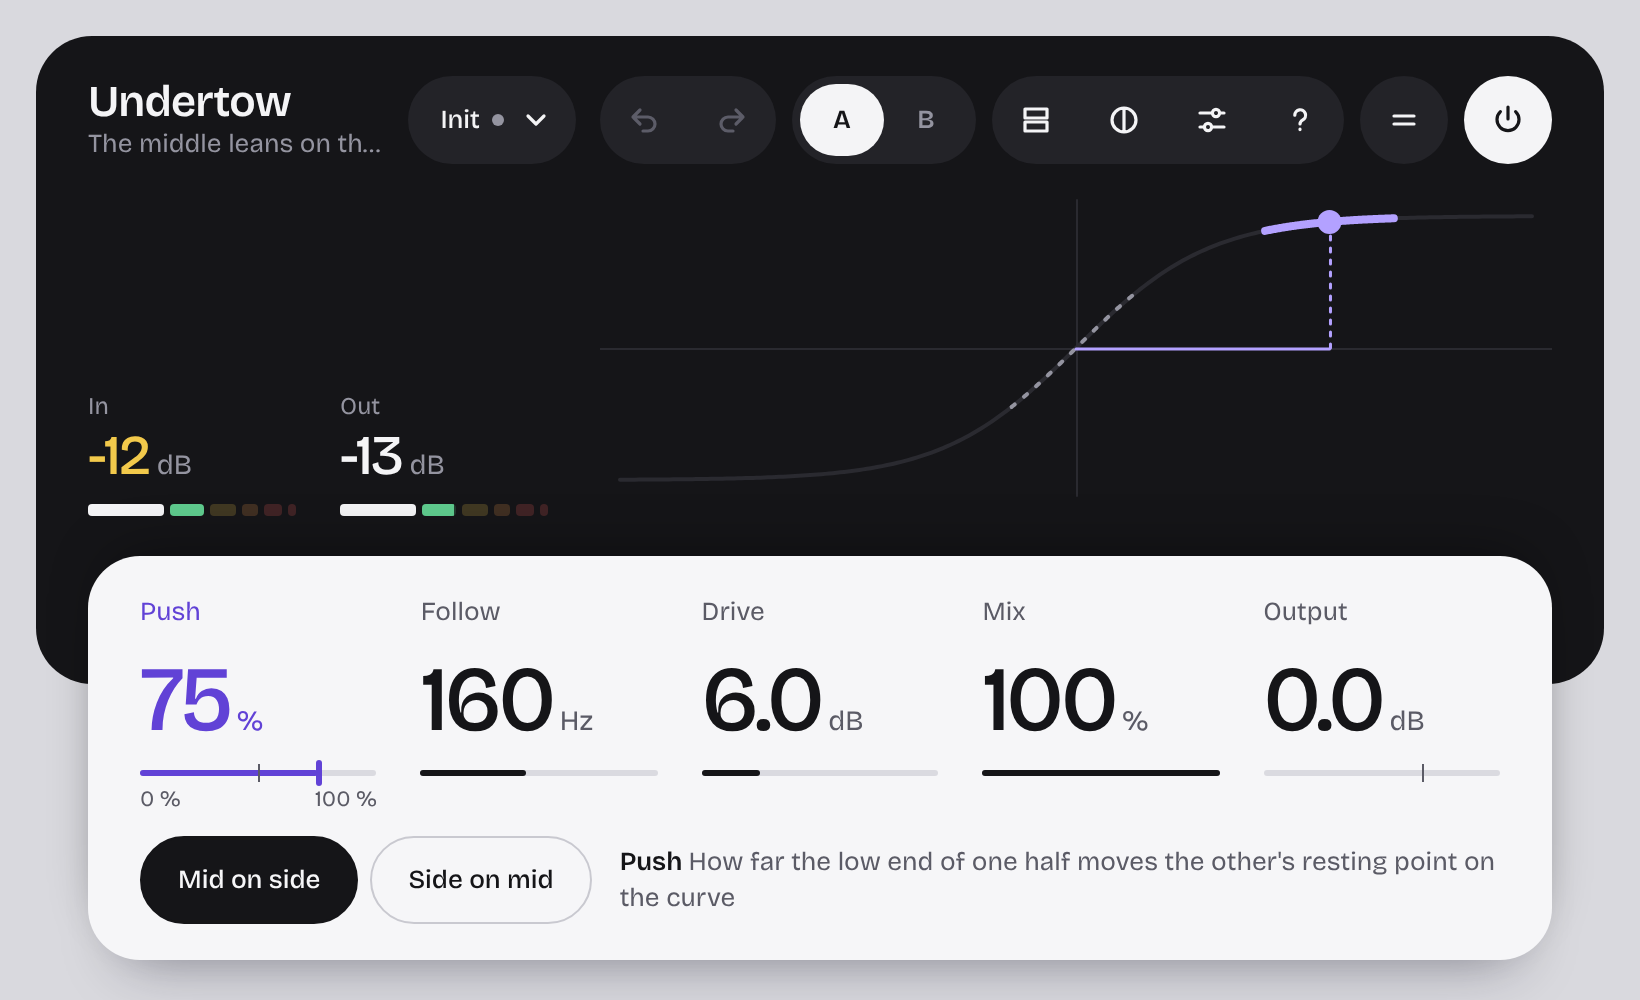
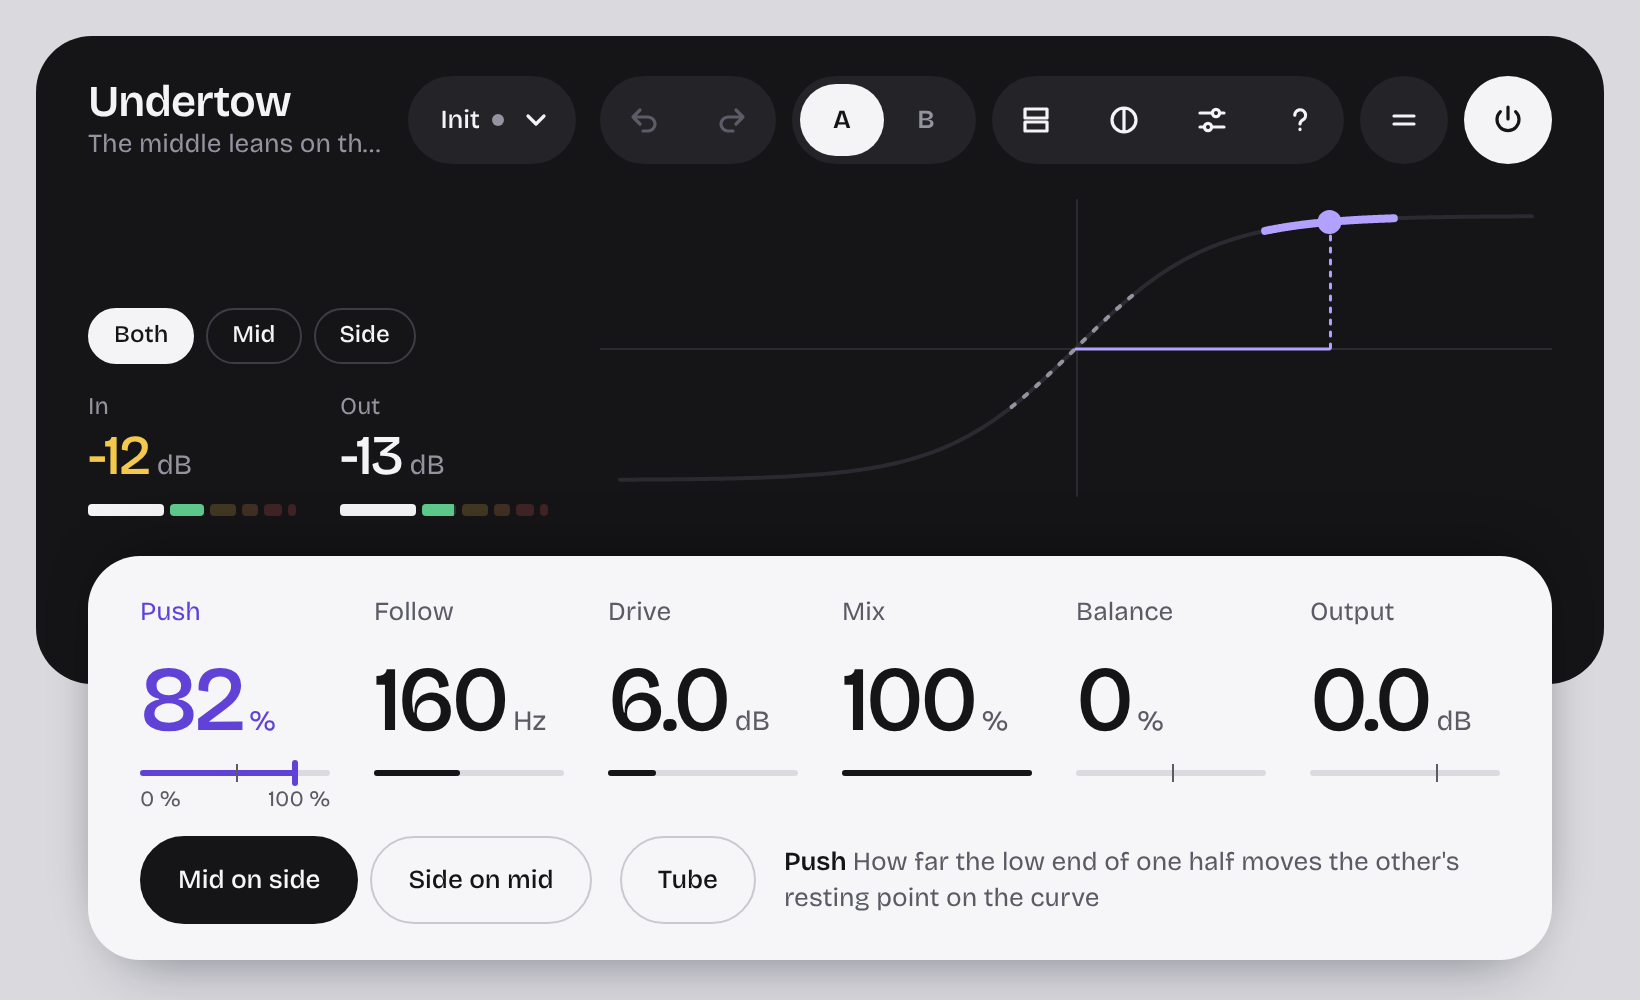
Undertow 0.2.0: solo and balance for mid and side, and the tube window
New settings take new ids (12 to 17); none that shipped changes. With
the tube window at rest it sounds as 0.1.1 did.

Claude-Session: https://claude.ai/code/session_01LsEv5JJ6sX3X7Qe9Tsco2Y

diff --git a/plugins/undertow/ui/main.js b/plugins/undertow/ui/main.js
@@ -5,11 +5,10 @@
 
 import {
   mount, glass, header, stage, readouts, meter, picture, sheet, values,
-  value, choice, foot, h
+  value, choice, foot, h, column, listen, tubeCurve
 } from './kit/kit.js'
 
-// As src/lib.rs has them.
-const curve = (x) => Math.tanh(x)
+// As src/lib.rs has it.
 const REACH = 3
 
 // How far either way of the centre the glass shows, on the curve's
@@ -18,7 +17,7 @@ const SPAN = REACH + 0.4
 
 // The settings that move what is drawn: holding one turns the riding
 // stretch purple.
-const DRAWN = ['push', 'follow', 'drive', 'steer']
+const DRAWN = ['push', 'follow', 'drive', 'steer', 'tube_bias', 'tube_grid']
 
 // From the sound itself, the resting point the bias would give at
 // each of the latest samples: the leaning half's low end, by Push.
@@ -40,6 +39,11 @@ const draw = (ui) => (pen) => {
   const tall = height / 2 - 18
   const across = (x) => width / 2 + x / SPAN * (width / 2 - 10)
   const up = (y) => mid - y * tall
+  // The valve's own curve, as the tube window has shaped it, and how
+  // far its Bias has moved where the carried half rests on it.
+  const grid = ui.p.tube_grid.plain / 100
+  const rest = ui.p.tube_bias.plain / 100
+  const curve = (x) => tubeCurve(x, grid)
   const along = (from, to, n = 120) => Array.from({ length: n + 1 },
     (_, i) => from + (to - from) * i / n)
   const path = (xs) => {
@@ -54,9 +58,9 @@ const draw = (ui) => (pen) => {
   const midLeans = ui.p.steer.plain === 0
   const live = midLeans && pen.signal?.input.length ? pen.signal : null
   const wake = live ? biases(ui, live) : null
-  const bias = wake
+  const bias = rest + (wake
     ? wake[wake.length - 1]
-    : ui.m.lean.value * REACH
+    : ui.m.lean.value * REACH)
   const swing = Math.max(0.04, ui.m.swing.value * REACH)
 
   // The axes: the centre of the curve, where the sides rest unpushed.
@@ -73,8 +77,9 @@ const draw = (ui) => (pen) => {
   // or from the lean meter's last seconds, which knows how far but
   // not which way, so it is drawn both ways.
   const been = wake
-    ? wake.filter((_, i) => i % 6 === 0)
-    : pen.trail(ui.m.lean).flatMap((v) => [v * REACH, -v * REACH])
+    ? wake.filter((_, i) => i % 6 === 0).map((x) => x + rest)
+    : pen.trail(ui.m.lean)
+      .flatMap((v) => [rest + v * REACH, rest - v * REACH])
   ctx.fillStyle = pen.soft
   been.forEach((x) => {
     ctx.fillRect(across(x) - 1, up(curve(x)) - 7, 2, 14)
@@ -89,7 +94,7 @@ const draw = (ui) => (pen) => {
   ctx.strokeStyle = pen.soft
   ctx.lineWidth = 2
   ctx.setLineDash([2, 6])
-  path(along(-swing, swing))
+  path(along(rest - swing, rest + swing))
   ctx.setLineDash([])
 
   // The push: from the centre along the axis to where the bass has
@@ -98,7 +103,7 @@ const draw = (ui) => (pen) => {
   ctx.strokeStyle = held ? pen.accent : pen.ink
   ctx.lineWidth = 1.5
   ctx.beginPath()
-  ctx.moveTo(across(0), mid + 0.5)
+  ctx.moveTo(across(rest), mid + 0.5)
   ctx.lineTo(across(bias), mid + 0.5)
   ctx.stroke()
   ctx.setLineDash([2, 4])
@@ -146,9 +151,11 @@ mount((ui) => [
   glass(
     header(ui, { note: leaning(ui) }),
     stage(
-      readouts(
-        meter(ui.m.input, { title: 'In' }),
-        meter(ui.m.level, { title: 'Out' })),
+      column(
+        listen(ui.p.listen, { ui }),
+        readouts(
+          meter(ui.m.input, { title: 'In' }),
+          meter(ui.m.level, { title: 'Out' }))),
       picture(ui, draw(ui), {
         label: 'The valve\'s curve: dashed where the carried half would ' +
           'swing at rest, solid where the leaning half has pushed it. ' +
@@ -161,6 +168,7 @@ mount((ui) => [
       value(ui.p.follow, { ui }),
       value(ui.p.drive, { ui }),
       value(ui.p.mix, { ui }),
+      value(ui.p.balance, { ui, bipolar: true }),
       value(ui.p.output, { ui, bipolar: true })),
     foot(ui, choice(ui.p.steer, { ui })))
 ], { presets: PRESETS })

diff --git a/plugins/undertow/ui/style.css b/plugins/undertow/ui/style.css
@@ -1,6 +1,6 @@
-/* Undertow's own look, over the kit's. Five settings sit in one row
+/* Undertow's own look, over the kit's. Six settings sit in one row
    rather than the kit's four, since each belongs beside the others:
    the three that set the lean, then the way out. */
 .kit-values {
-  grid-template-columns: repeat(5, minmax(0, 1fr));
+  grid-template-columns: repeat(6, minmax(0, 1fr));
 }

diff --git a/plugins/undertow/src/lib.rs b/plugins/undertow/src/lib.rs
@@ -5,7 +5,7 @@
 
 use kit::level::{db_to_gain, peak, to_fraction};
 use kit::{Asset, Block, Info, Param, Plugin, Role, list, meter, range};
-use kit_dsp::{Match, Smooth, Svf};
+use kit_dsp::{Match, MidSide, Smooth, Svf, Tube, TubeShape};
 
 // Indexes into PARAMS, for `Block`.
 pub const PUSH: usize = 0;
@@ -16,6 +16,12 @@ pub const MIX: usize = 4;
 pub const OUTPUT: usize = 5;
 pub const BYPASS: usize = 6;
 pub const MATCH: usize = 7;
+pub const BALANCE: usize = 8;
+pub const LISTEN: usize = 9;
+pub const TUBE_BIAS: usize = 10;
+pub const TUBE_GRID: usize = 11;
+pub const TUBE_SAG: usize = 12;
+pub const TUBE_GLOW: usize = 13;
 // Indexes into METERS.
 pub const INPUT: usize = 0;
 pub const LEVEL: usize = 1;
@@ -60,6 +66,10 @@ pub struct Undertow {
     drive: Smooth,
     mix: Smooth,
     matcher: Match,
+    // The valve itself, as the tube window sets it, and which of the
+    // middle and the sides is heard.
+    tube: Tube,
+    halves: MidSide,
     output: Smooth,
     lean: f32,
     lean_fall: f32,
@@ -117,6 +127,12 @@ impl Plugin for Undertow {
         // Ids 6 to 9 are the meters'.
         kit::bypass(10),
         kit::level_match(11),
+        kit::balance(12),
+        kit::listen(13),
+        kit::tube_bias(14),
+        kit::tube_grid(15),
+        kit::tube_sag(16),
+        kit::tube_glow(17),
     ];
 
     const METERS: &'static [Param] = &[
@@ -140,6 +156,8 @@ impl Plugin for Undertow {
             drive: Smooth::new(1.0, EASE_MS, rate),
             mix: Smooth::new(0.0, EASE_MS, rate),
             matcher: Match::new(rate),
+            tube: Tube::new(rate),
+            halves: MidSide::new(rate),
             output: Smooth::new(1.0, EASE_MS, rate),
             lean: 0.0,
             lean_fall: 0.0,
@@ -154,6 +172,8 @@ impl Plugin for Undertow {
         self.drive = Smooth::new(db_to_gain(at(DRIVE)), EASE_MS, rate);
         self.mix = Smooth::new(at(MIX) / 100.0, EASE_MS, rate);
         self.matcher = Match::new(rate);
+        self.tube = Tube::new(rate);
+        self.halves = MidSide::new(rate);
         self.output = Smooth::new(db_to_gain(at(OUTPUT)), EASE_MS, rate);
         self.lean = 0.0;
         self.lean_fall = 1.0 / (LEAN_HOLD_MS * 0.001 * rate);
@@ -172,6 +192,16 @@ impl Plugin for Undertow {
         let output = db_to_gain(block.value(OUTPUT));
         let mid_leans = block.choice(STEER) == MID_ON_SIDE;
         let matching = block.choice(MATCH) == 1;
+        let balance = block.value(BALANCE) / 100.0;
+        let listen = block.choice(LISTEN);
+        // The valve is refined once a block: these are set and left,
+        // not ridden.
+        self.tube.set(TubeShape {
+            bias: block.value(TUBE_BIAS) / 100.0,
+            grid: block.value(TUBE_GRID) / 100.0,
+            sag: block.value(TUBE_SAG) / 100.0,
+            glow: block.value(TUBE_GLOW) / 100.0,
+        });
         // The filter's corner moves once a block: it shapes the bias,
         // never the sound directly, so a step in it is not heard.
         self.low.set(follow, 0.707);
@@ -191,7 +221,8 @@ impl Plugin for Undertow {
             // The bias is the leaning half's own low wave, not an
             // envelope of it: up and down push opposite ways.
             let bias = self.low.next(key).low * push;
-            let wet = leaned(carried, drive, bias);
+            // With the tube window at rest this is `leaned` exactly.
+            let wet = self.tube.next(carried * drive, bias) / drive;
             let carried = carried + (wet - carried) * mix;
 
             self.lean = (self.lean - self.lean_fall).max(bias.abs() / REACH);
@@ -207,7 +238,12 @@ impl Plugin for Undertow {
             let heard_now = left * left + right * right;
             let made = out_l * out_l + out_r * out_r;
             let output = output * self.matcher.next(heard_now, made, matching);
-            let outs = [out_l * output, out_r * output];
+            // Soloing and weighing the halves come last, after the
+            // level is matched on the whole: a solo is for hearing, and
+            // must not make the matcher turn the rest up.
+            let (mid_gain, side_gain) = self.halves.next(balance, listen);
+            let (mid, side) = (mid * mid_gain, side * side_gain);
+            let outs = [(mid + side) * output, (mid - side) * output];
             for (ch, value) in outs.iter().enumerate().take(block.outputs()) {
                 block.output(ch)[i] = *value;
             }

diff --git a/plugins/undertow/tests/sound.rs b/plugins/undertow/tests/sound.rs
@@ -296,3 +296,56 @@ fn matched_it_goes_out_as_loud_as_it_came_in_however_hard_it_leans() {
     // Left alone the level moves, which is what matching is for.
     assert!((loose / came - 1.0).abs() > 0.05, "{loose} for {came}");
 }
+
+#[test]
+fn soloed_only_that_half_is_heard_and_the_balance_turns_the_other_down() {
+    let n = SECOND;
+    let bass: Vec<f32> = (0..n).map(|i| 0.3 * (i as f32 * 0.008).sin()).collect();
+    let air: Vec<f32> = (0..n).map(|i| 0.15 * (i as f32 * 0.21).sin()).collect();
+    let input = stereo(&bass, &air);
+    let power = |x: &[f32]| x.iter().map(|s| s * s).sum::<f32>();
+    let heard = |settings: &[(usize, f64)]| {
+        let (mid, side) = settled(&mut with(settings), &input);
+        (power(&mid), power(&side))
+    };
+    let (mid, side) = heard(&[]);
+
+    let (m, s) = heard(&[(undertow::LISTEN, 1.0)]);
+    assert!(
+        s < side * 1e-6 && (m / mid - 1.0).abs() < 1e-3,
+        "mid alone: {m} {s}"
+    );
+    let (m, s) = heard(&[(undertow::LISTEN, 2.0)]);
+    assert!(
+        m < mid * 1e-6 && (s / side - 1.0).abs() < 1e-3,
+        "side alone: {m} {s}"
+    );
+
+    // Half way to the sides: the middle is down to a quarter (a
+    // sixteenth in power), and the sides are as they were.
+    let (m, s) = heard(&[(undertow::BALANCE, 50.0)]);
+    assert!((m / mid - 1.0 / 16.0).abs() < 0.005, "{}", m / mid);
+    assert!((s / side - 1.0).abs() < 1e-3);
+}
+
+#[test]
+fn the_tube_window_changes_the_valve_and_at_rest_changes_nothing() {
+    let n = SECOND;
+    let quiet = vec![0.0f32; n];
+    let tone: Vec<f32> = (0..n)
+        .map(|i| 0.4 * (std::f32::consts::TAU * 200.0 * i as f32 / RATE).sin())
+        .collect();
+    // A tone on the sides only, driven, with nothing in the middle to
+    // lean: what the valve itself does to it.
+    let input = stereo(&quiet, &tone);
+    let second = |settings: &[(usize, f64)]| {
+        let base = [(PUSH, 0.0), (DRIVE, 18.0)];
+        let (_, side) = settled(&mut with(&[&base[..], settings].concat()), &input);
+        near(&side, 400.0)
+    };
+
+    // Centred and at rest, a valve makes no even harmonics.
+    assert!(second(&[]) < 1e-4, "{}", second(&[]));
+    assert!(second(&[(undertow::TUBE_BIAS, 40.0)]) > 0.005);
+    assert!(second(&[(undertow::TUBE_GRID, 100.0)]) > 0.001);
+}

diff --git a/plugins/undertow/docs/manual.md b/plugins/undertow/docs/manual.md
@@ -98,8 +98,9 @@ Ctrl+Shift+Z), and **A B** flips between two sets of settings so you
 can hear which is better: B starts as a copy of A. The stacked bars
 step through three densities, Roomy, Regular and Dense, which trade
 the size of the numbers for room on the glass. The split disc switches
-between the dark and the light theme. The sun opens the settings
-(theme, density, how long a meter holds its peak, motion, fine drag),
+between the dark and the light theme. The two sliders open the
+settings (theme, density, how long a meter holds its peak and how
+fast it falls, motion, fine drag),
 and the question mark turns help on: the foot of the sheet then also
 says each setting's range and where it rests. All of these are kept
 for every plugin of ours in the same host.
@@ -140,6 +141,50 @@ a wide synth bass under a mono vocal.
 **Drive** is how hard the carried half goes into the curve, from 0 to
 24 dB. The swing drawn on the glass gets wider with it. A small sound
 comes out at its own level; louder ones are rounded off by the curve.
+
+### The tube window
+
+**Tube**, at the foot of the sheet, opens a window on the valve
+itself. It has four settings and draws the curve they make; the
+dashed line is a sound left alone. All four rest where Undertow has
+always sounded, so nothing changes until you move one. A dot on the
+Tube button means something in there has been moved, **At rest** puts
+all four back, and **Done** closes the window. Every plugin of ours
+with a valve in it has this same window.
+
+![The tube window, with the top half giving out sooner](images/tube.png)
+
+**Bias** is where on its curve the valve rests before the bass pushes
+it, from -100 to 100%. Off 0% the carried half is already on a
+lopsided part of the curve, so it has even harmonics even with Push
+at 0%. The curve on the glass moves its resting point with it.
+
+**Grid** is how suddenly the top half of the curve gives out, from 0
+to 100%. At 0% both halves round off alike. Higher, and the upward
+swing flattens sooner and lower than the downward one, which is
+harder and brighter. The curve on the glass changes with it.
+
+**Sag** is how far a held loud sound eases back, from 0 to 100%, as a
+valve's supply droops under load. Quiet sounds are left alone; loud,
+sustained ones lose a little and soften.
+
+**Glow** is how high the harmonics the valve adds sit, from 0 to
+100%. The sound going in is not made brighter: only what the curve
+adds is.
+
+### Mid and side
+
+**Listen** is the three buttons on the glass above the meters.
+**Both**, **Mid** and **Side** choose what you hear: everything, the middle alone, or the sides alone. They
+are for listening while you work and come in without a click. Set it
+back to Both before you print, since it is a setting like any other
+and your host saves it.
+
+**Balance** weighs the two halves, from -100 to 100%. Below 0% the
+sides are turned down, to nothing at -100%; above, the middle is.
+Neither is ever turned up, so with Output it sets the level of each.
+
+![Listening to the sides alone](images/sides.png)
 
 ### Output
 
